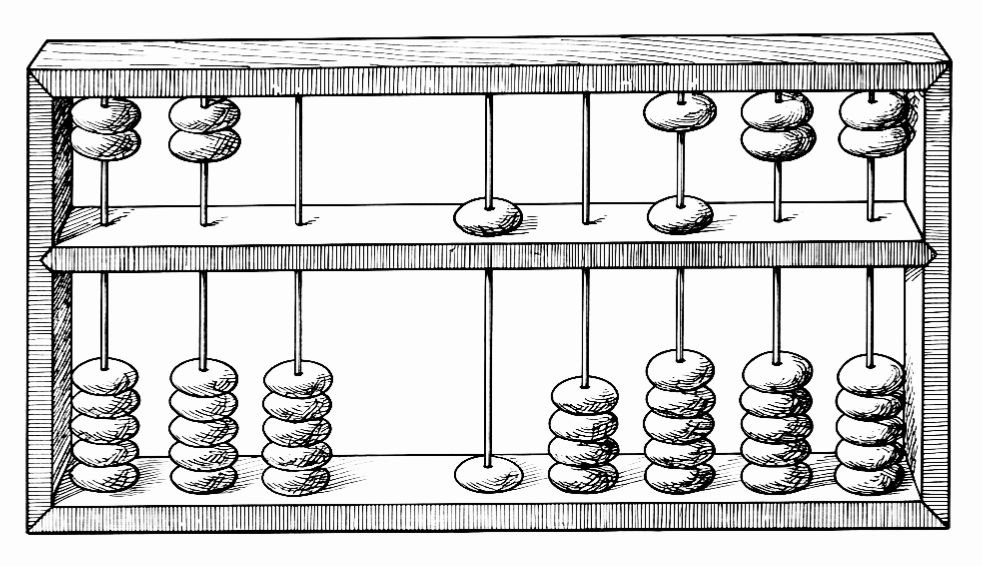
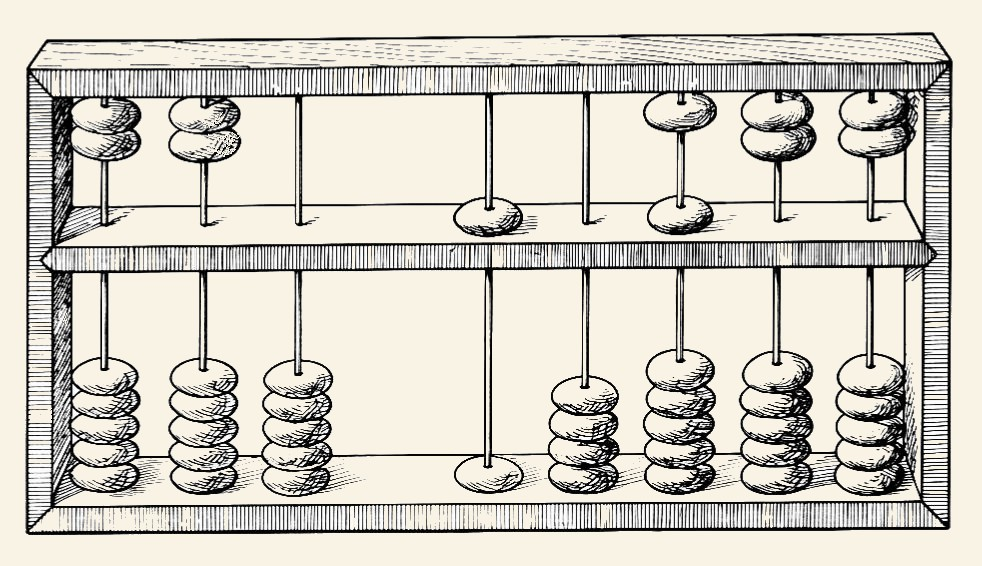
new img neo

diff --git a/templates/neocities/neocities.html b/templates/neocities/neocities.html
@@ -241,7 +241,7 @@
         <section id="section1">
             <h1>Essays</h1>
                         <div  class="essay-img image">
-                            <img src="img1.png" title="book"/>
+                            <img src="img1.jpg" title="book"/>
                         </div>
                         <!-- style="height: 150px;" -->
 
@@ -264,7 +264,7 @@
         <section id="section3">
             <h1>Programming</h1>
                         <div  class="essay-img image">
-                            <img src="img3.jpg" title="book"/>
+                            <img src="img3.png" title="book"/>
                         </div>
             <p>The third section can contain any content. Minimalism does not mean limited functionality.</p>
         </section>
